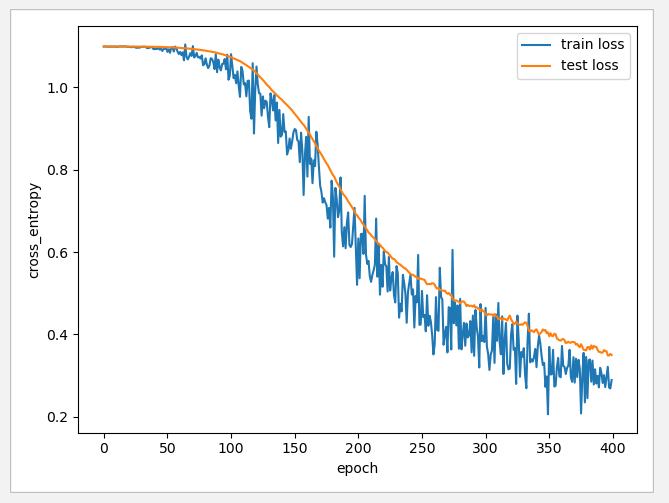
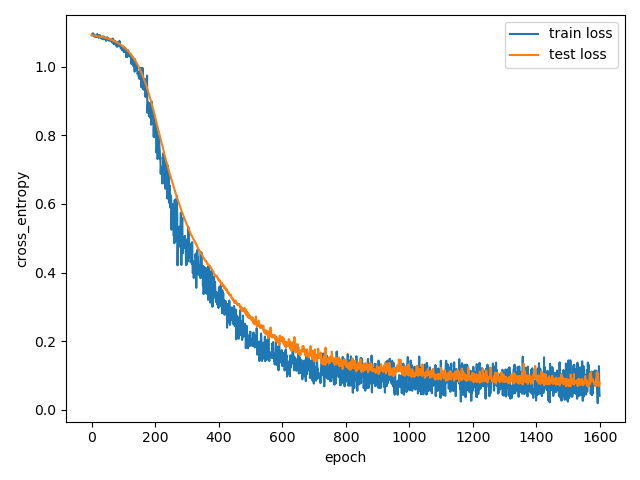
modified

Changed region(s): [[0.0, 0.0, 0.9688, 1.0]]

diff --git a/test.py b/test.py
@@ -7,6 +7,7 @@ from optimizers import Optimizers
 from loss import Loss
 from layers import Layer
 from utils import one_hot
+"""
 # 数据加载与处理
 (x_train,y_train),(x_test,y_test)=datasets.mnist.load_data()
 
@@ -30,7 +31,7 @@ print(iris.data.shape)
 x_train,x_test,y_train,y_test=train_test_split(iris.data,iris.target,test_size=0.2,random_state=10,shuffle=True)
 print(x_train.shape,x_test.shape)
 print(y_test[:10])
-"""
+
 
 class DataLoader:
     def __init__(self, X, y, class_num,func=None):
@@ -52,24 +53,24 @@ class DataLoader:
         if have_train_num<self.num_samples:
             yield self.X[indices[have_train_num:], :], one_hot(self.y[indices[have_train_num:]], self.class_num)
 
-train_data=DataLoader(x_train,y_train,10)
-test_data=DataLoader(x_test,y_test,10)
+train_data=DataLoader(x_train,y_train,3)
+test_data=DataLoader(x_test,y_test,3)
 
 # 构建网络
 model=NeuralNetwork()
-model.add_layer(Layer(784,256,'relu'))
-model.add_layer(Layer(256,128,'relu'))
-model.add_layer(Layer(128,10))
+model.add_layer(Layer(4,8,'relu'))
+model.add_layer(Layer(8,8,'relu'))
+model.add_layer(Layer(8,3))
 
 # 构建损失函数和优化器
-lr=0.05
+lr=0.01
 loss=Loss(loss='cross_entropy_with_logits')
 optimizer=Optimizers(optimizer='sgd',learning_rate=lr)
 model.compile(loss=loss,optimizer=optimizer)
 
 # 训练数据
-num_epochs = 100
-batch_size = 16
+num_epochs = 1600
+batch_size = 64
 train_loss = []
 test_loss = []
 for epoch in range(num_epochs):

diff --git a/README.md b/README.md
@@ -45,6 +45,7 @@ from layers import Layer
 
 model=NeuralNetwork()
 model.add_layer(Layer(4,8,'relu'))
+model.add_layer(Layer(8,8,'relu'))
 model.add_layer(Layer(8,3))
 ```
 ## 定义损失和优化器
@@ -52,15 +53,15 @@ model.add_layer(Layer(8,3))
 from optimizers import Optimizers
 from loss import Loss
 
-lr=0.1
+lr=0.01
 loss=Loss(loss='cross_entropy_with_logits')
 optimizer=Optimizers(optimizer='sgd',learning_rate=lr)
 model.compile(loss=loss,optimizer=optimizer)
 ```
 ## 训练网络
 ```python
-num_epochs = 400
-batch_size = 16
+num_epochs = 1600
+batch_size = 64
 train_loss = []
 test_loss = []
 for epoch in range(num_epochs):
